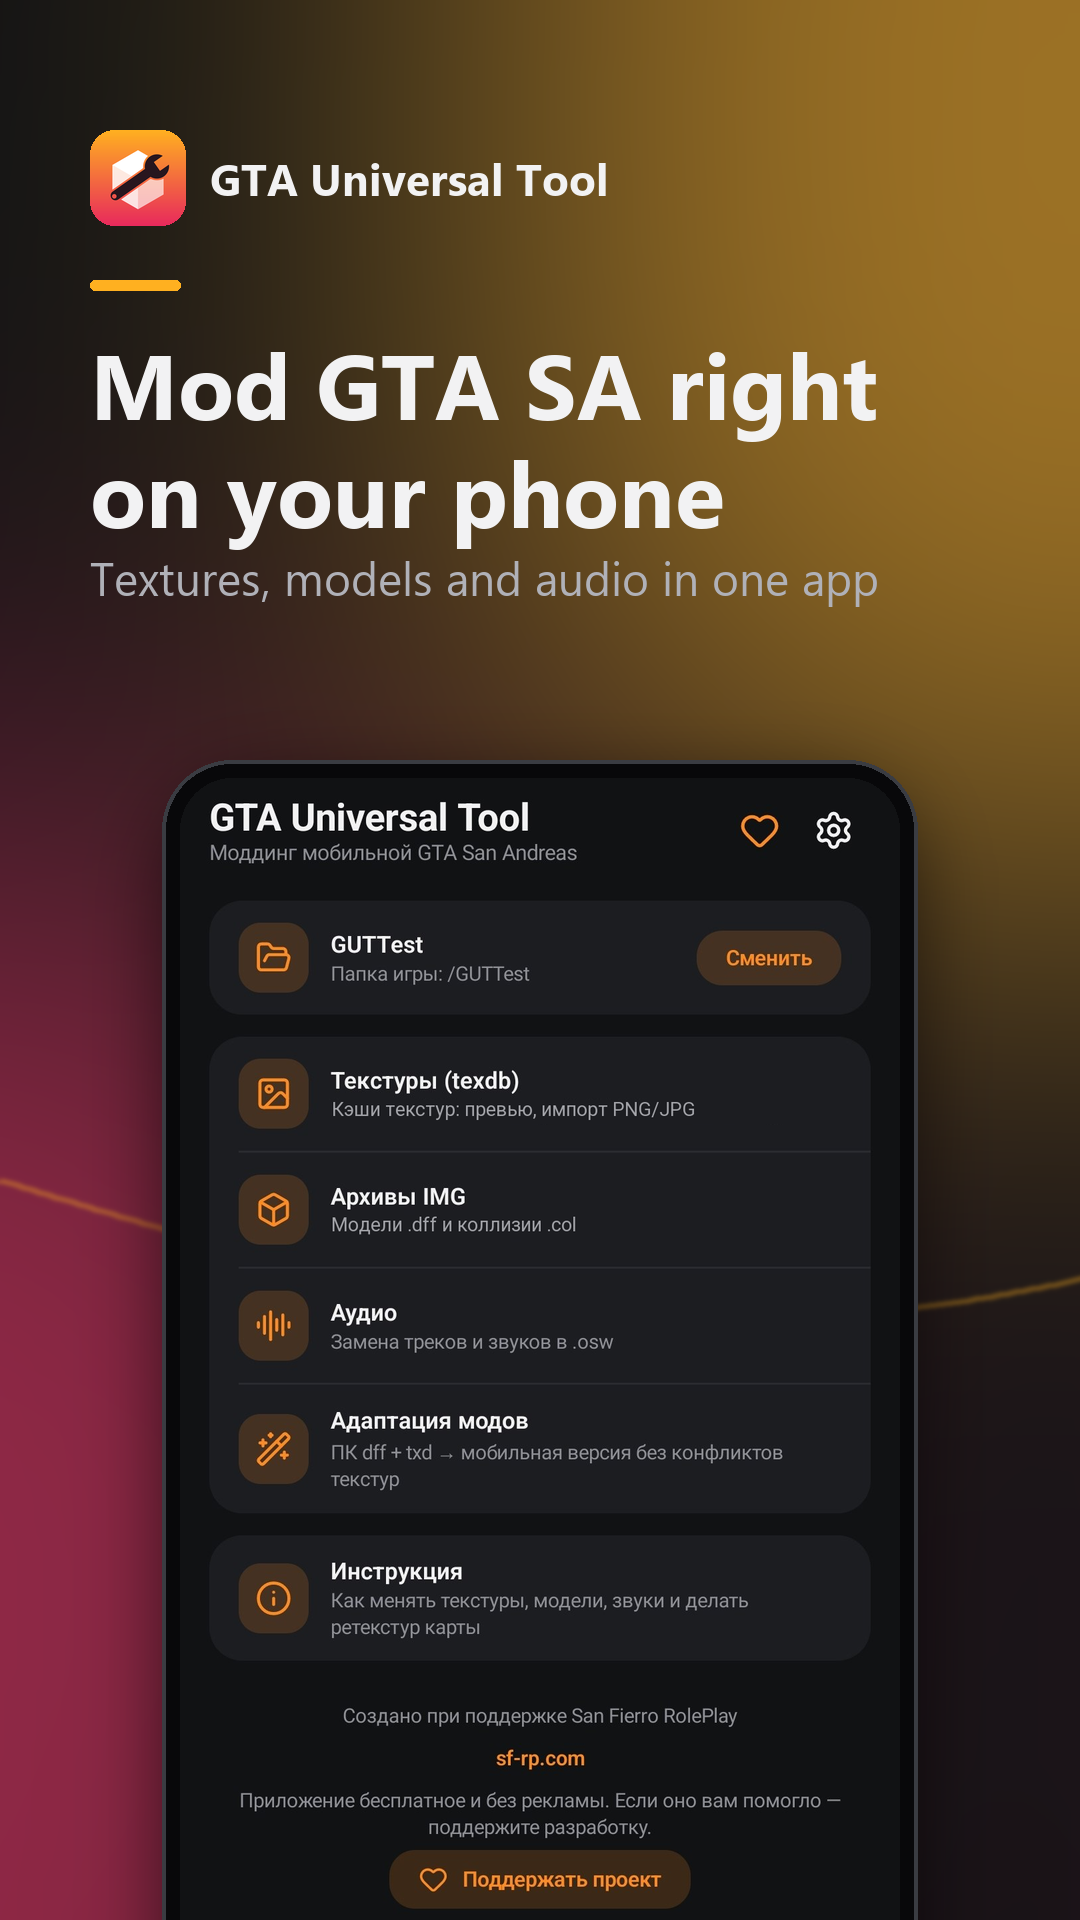
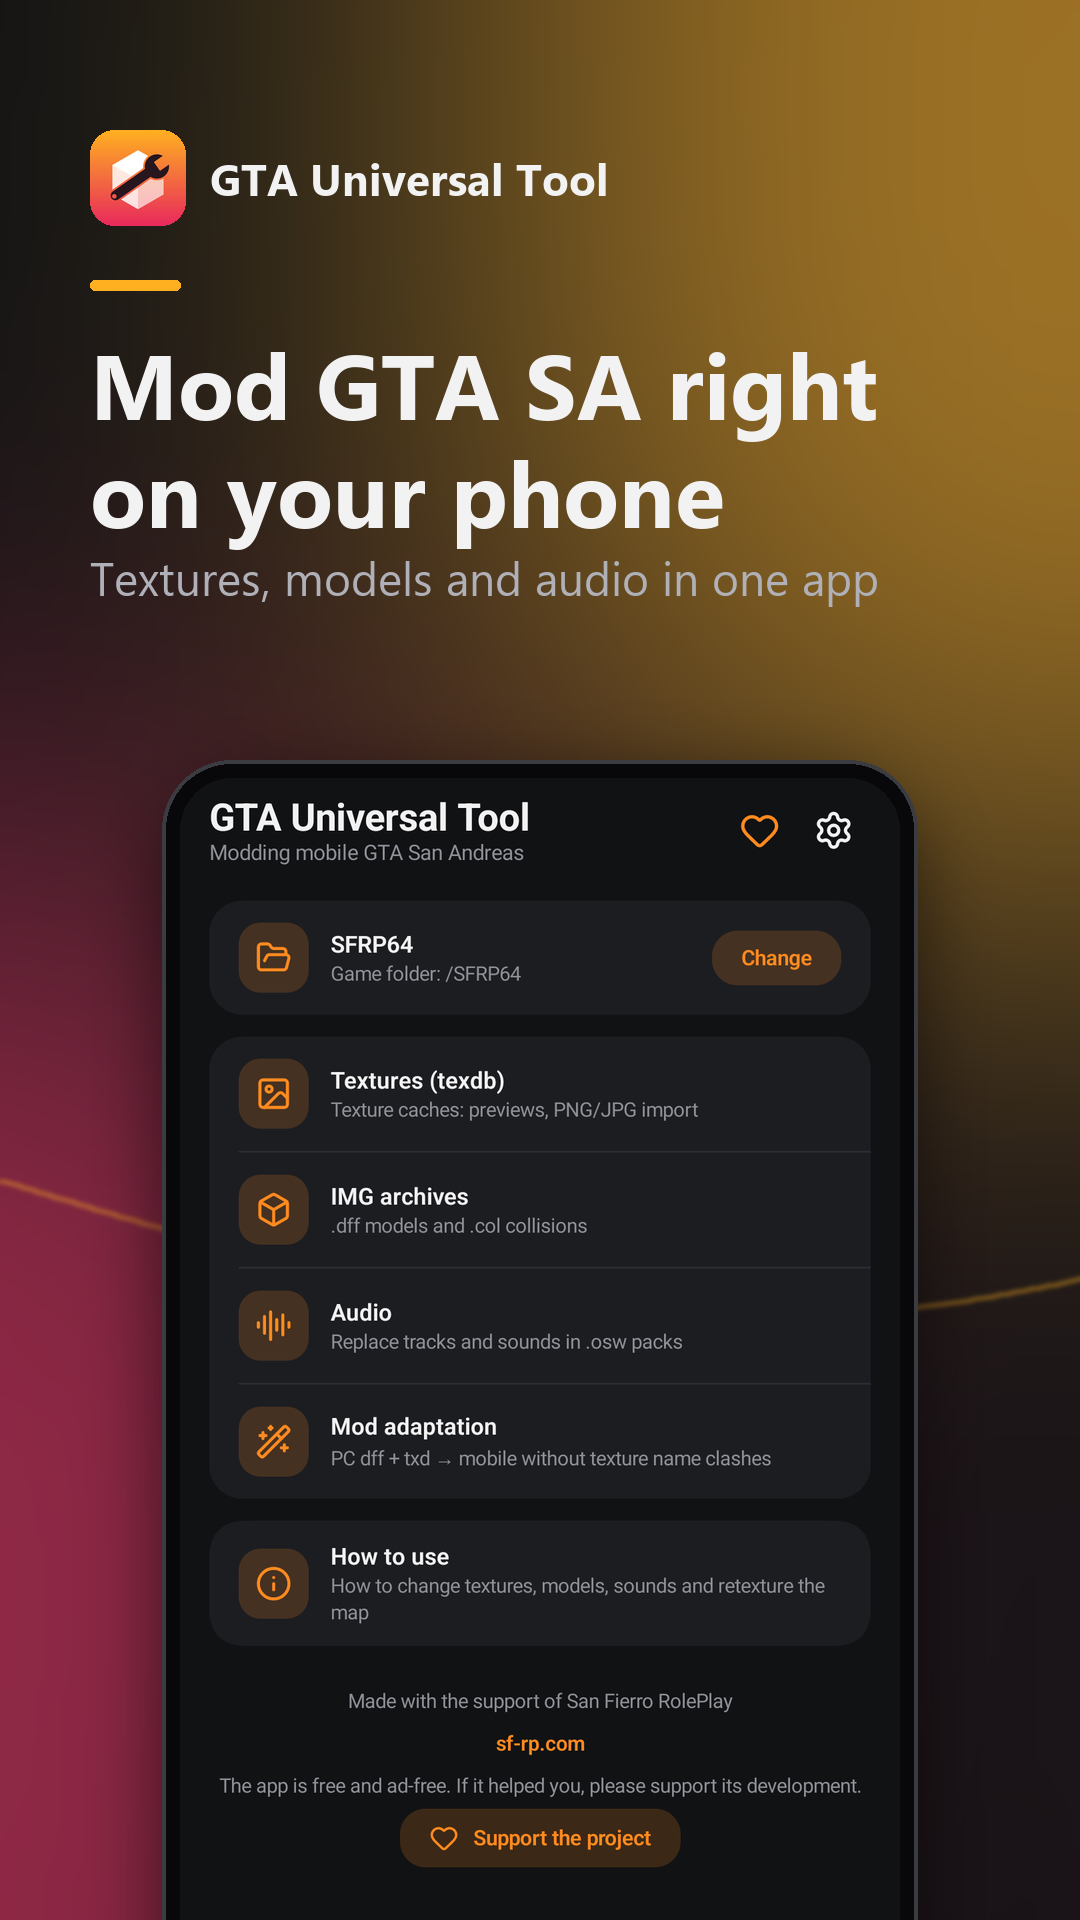
Store screenshots in each app language, new store title
- art/screens/<lang>: the app captured in ru, en, es and id; store art and
  slices rebuilt from them per language.
- Store title: "GTA Universal Tool – TXD & IMG Editor" (localized).
- Site: English page shows English screenshots.

diff --git a/site/en/index.html b/site/en/index.html
@@ -32,7 +32,7 @@
   "fileSize": "1.4MB",
   "license": "https://www.gnu.org/licenses/agpl-3.0.html",
   "image": "https://timmylich.github.io/gta-universal-tool/img/icon.png",
-  "screenshot": "https://timmylich.github.io/gta-universal-tool/img/1.png",
+  "screenshot": "https://timmylich.github.io/gta-universal-tool/img/en/1.png",
   "offers": { "@type": "Offer", "price": "0", "priceCurrency": "USD" }
 }
 </script>
@@ -60,7 +60,7 @@
         </div>
         <p class="meta">1.4 MB · Android 8+ · free, no ads, no root</p>
       </div>
-      <img class="shot" src="../img/2.png" alt="gta3 texture database with previews in GTA Universal Tool" width="1080" height="2280">
+      <img class="shot" src="../img/en/2.png" alt="gta3 texture database with previews in GTA Universal Tool" width="1080" height="2280">
     </section>
 
     <section id="features">
@@ -80,10 +80,10 @@
       <h2>Screenshots</h2>
       <p class="sub">Dark theme; English, Russian, Spanish and Indonesian.</p>
       <div class="shots">
-        <img src="../img/1.png" alt="Home screen" loading="lazy" width="1080" height="2280">
-        <img src="../img/2.png" alt="gta3 texture database with previews" loading="lazy" width="1080" height="2280">
-        <img src="../img/3.png" alt="IMG archive with selected files" loading="lazy" width="1080" height="2280">
-        <img src="../img/4.png" alt="Built-in guide" loading="lazy" width="1080" height="2280">
+        <img src="../img/en/1.png" alt="Home screen" loading="lazy" width="1080" height="2280">
+        <img src="../img/en/2.png" alt="gta3 texture database with previews" loading="lazy" width="1080" height="2280">
+        <img src="../img/en/3.png" alt="IMG archive with selected files" loading="lazy" width="1080" height="2280">
+        <img src="../img/en/4.png" alt="Built-in guide" loading="lazy" width="1080" height="2280">
       </div>
     </section>
 

diff --git a/scripts/store-art.py b/scripts/store-art.py
@@ -1,4 +1,4 @@
-"""Store and promo art from the raw screenshots in art/screens: per language one wide panorama
+"""Store and promo art from the raw screenshots in art/screens/<lang> (the app in that language): per language one wide panorama
 (art/promo/<lang>.png, 4320x1920) and its four 1080x1920 slices as store screenshots
 (fastlane/metadata/android/<lang>/images/phoneScreenshots/1-4.png). The background runs across the slices,
 so they read as one picture side by side. Needs Windows fonts (Segoe UI). Run: python scripts/store-art.py"""
@@ -106,11 +106,11 @@ def render(lang, shots, icon, bg):
 
 
 def main():
-  shots = [Image.open(os.path.join(ROOT, f'art/screens/{i}.png')).convert('RGB') for i in range(1, N + 1)]
   icon = Image.open(os.path.join(ROOT, 'fastlane/metadata/android/en-US/images/icon.png')).convert('RGB')
   bg = background()
   os.makedirs(os.path.join(ROOT, 'art/promo'), exist_ok=True)
   for lang in TEXT:
+    shots = [Image.open(os.path.join(ROOT, f'art/screens/{lang}/{i}.png')).convert('RGB') for i in range(1, N + 1)]
     pano = render(lang, shots, icon, bg)
     pano.save(os.path.join(ROOT, f'art/promo/{lang}.png'), optimize=True)
     out = os.path.join(ROOT, f'fastlane/metadata/android/{lang}/images/phoneScreenshots')

diff --git a/docs/stores.md b/docs/stores.md
@@ -10,7 +10,7 @@ Everything a store asks for is already in the repository:
 | Title / short / full description | `fastlane/metadata/android/{ru-RU,en-US,es-ES,id}/` |
 | What's new | `fastlane/metadata/android/*/changelogs/<versionCode>.txt` |
 | Privacy policy URL | `https://github.com/timmylich/gta-universal-tool/blob/main/docs/PRIVACY.md` |
-| Screenshots 1080×1920 | `fastlane/metadata/android/*/images/phoneScreenshots/1-4.png`, per language (made by `python scripts/store-art.py` from `art/screens`) |
+| Screenshots 1080×1920 | `fastlane/metadata/android/*/images/phoneScreenshots/1-4.png`, per language (made by `python scripts/store-art.py` from `art/screens/<lang>`, the app in that language) |
 | Wide promo picture 4320×1920 | `art/promo/<lang>.png` (the four screenshots side by side) |
 | Posts for Telegram / VK, GitHub description and topics | [promo.md](promo.md) |
 
